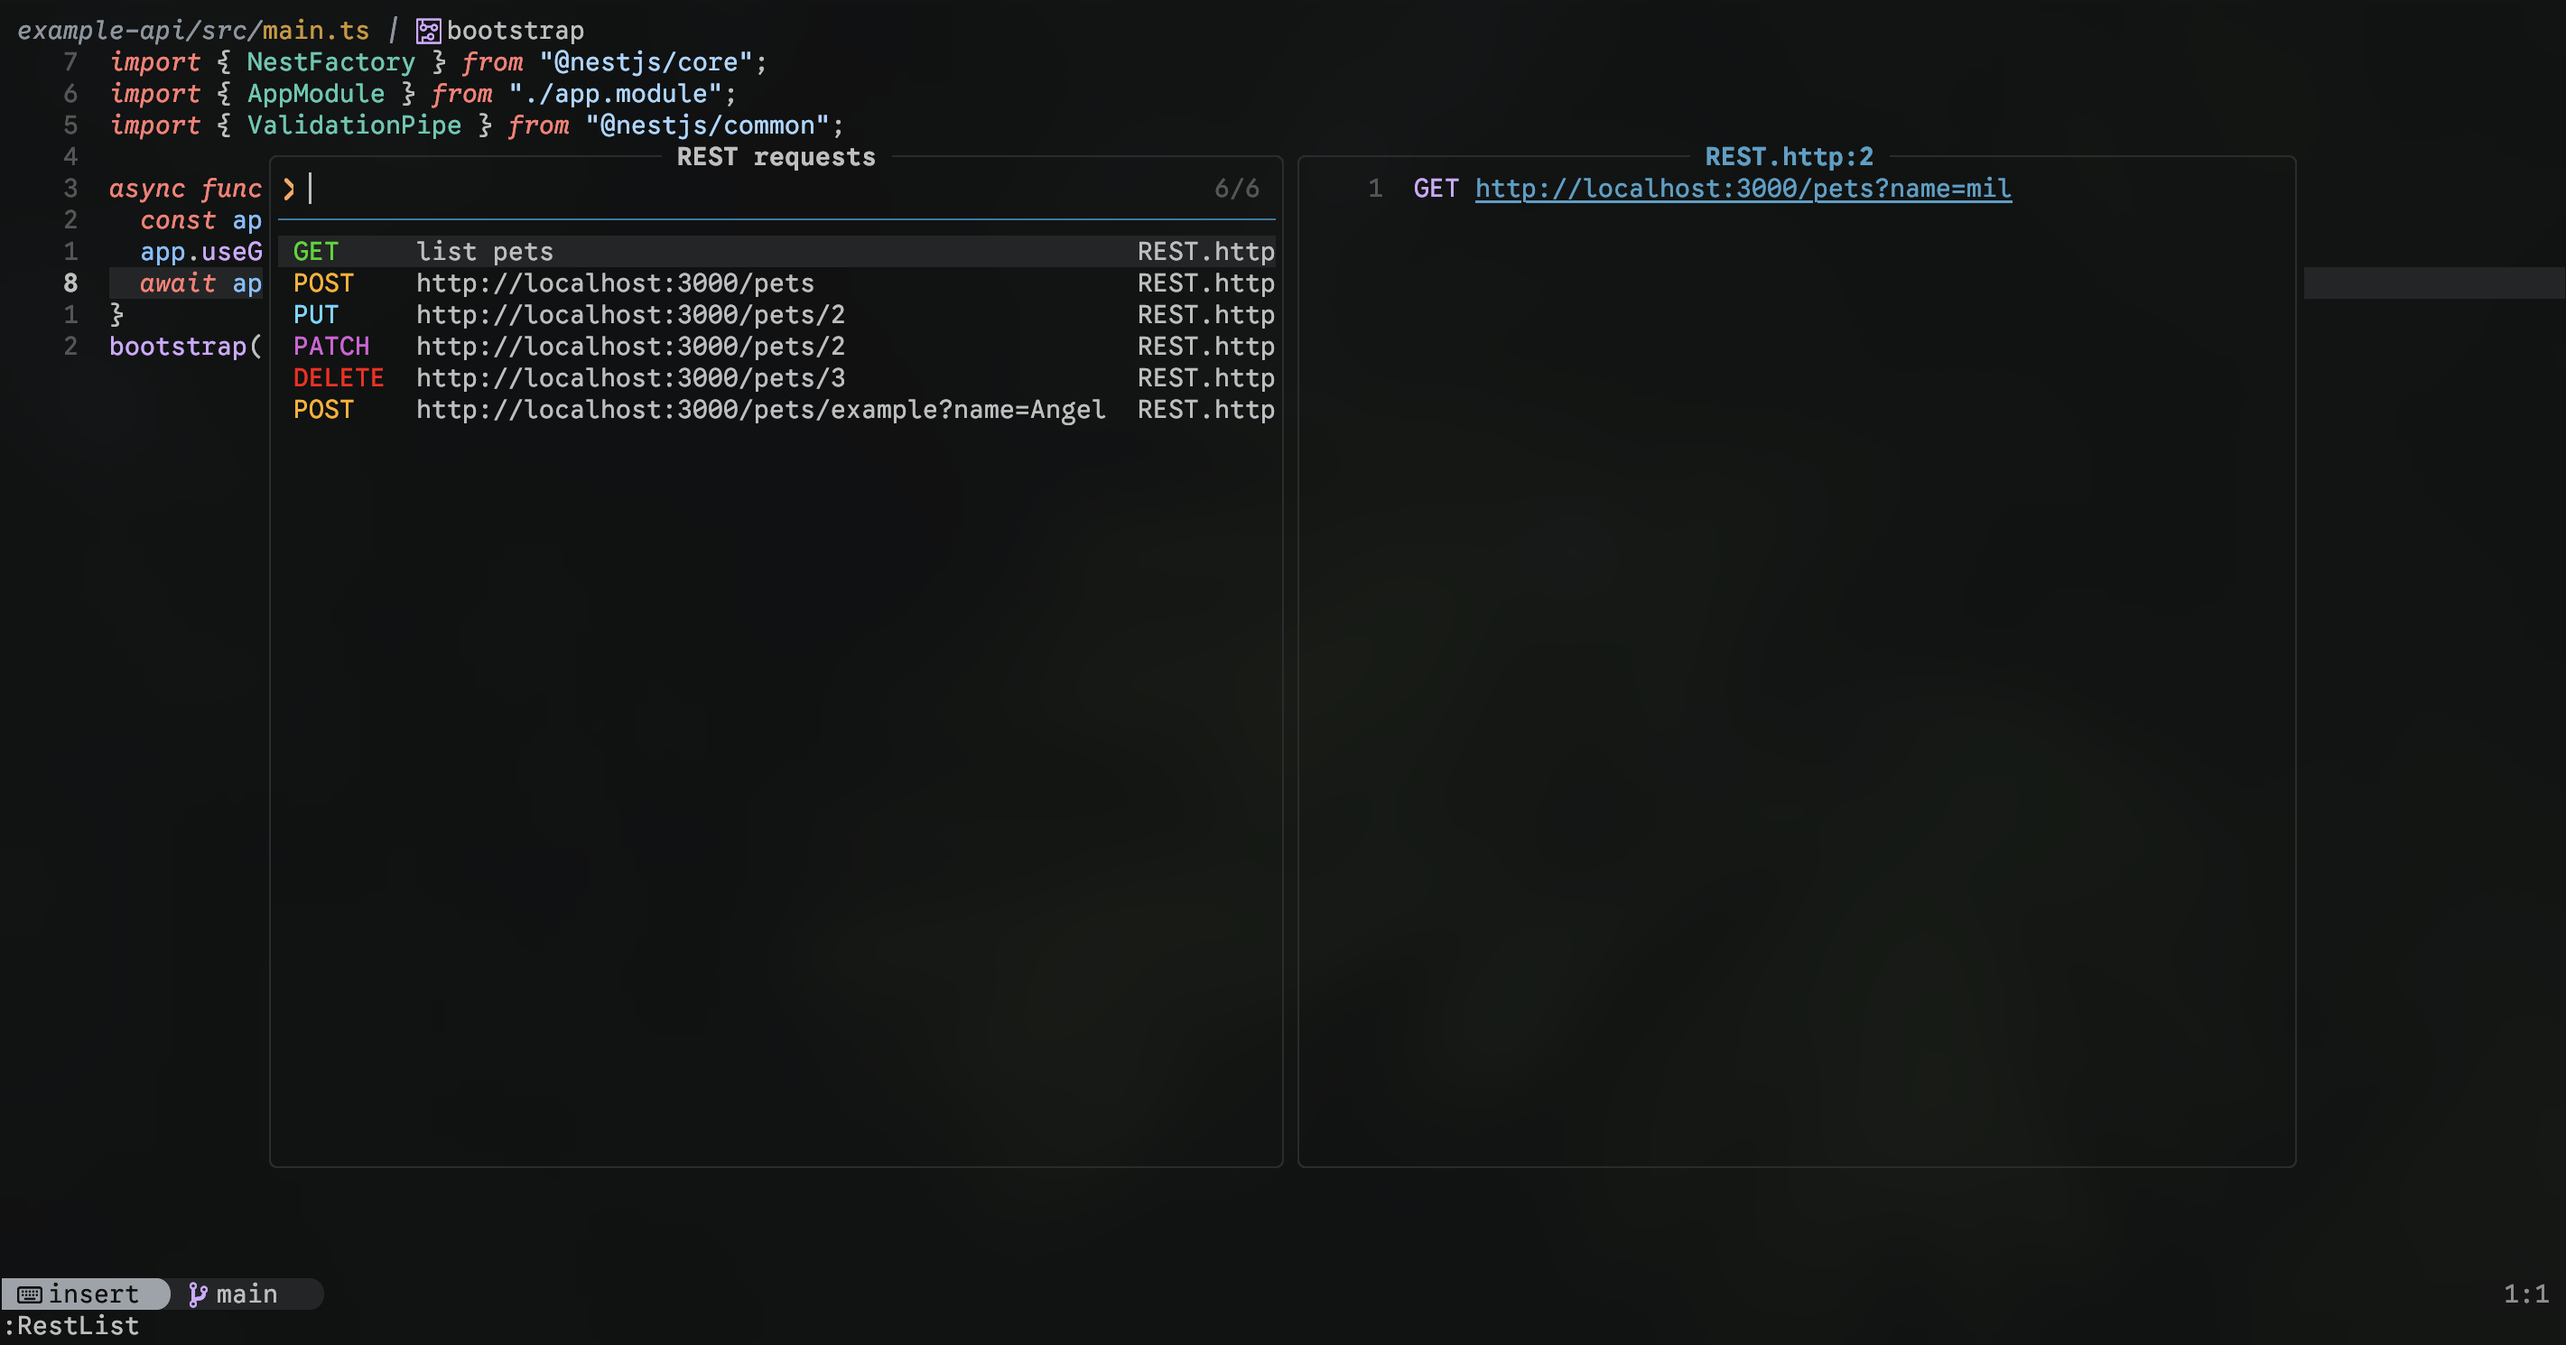
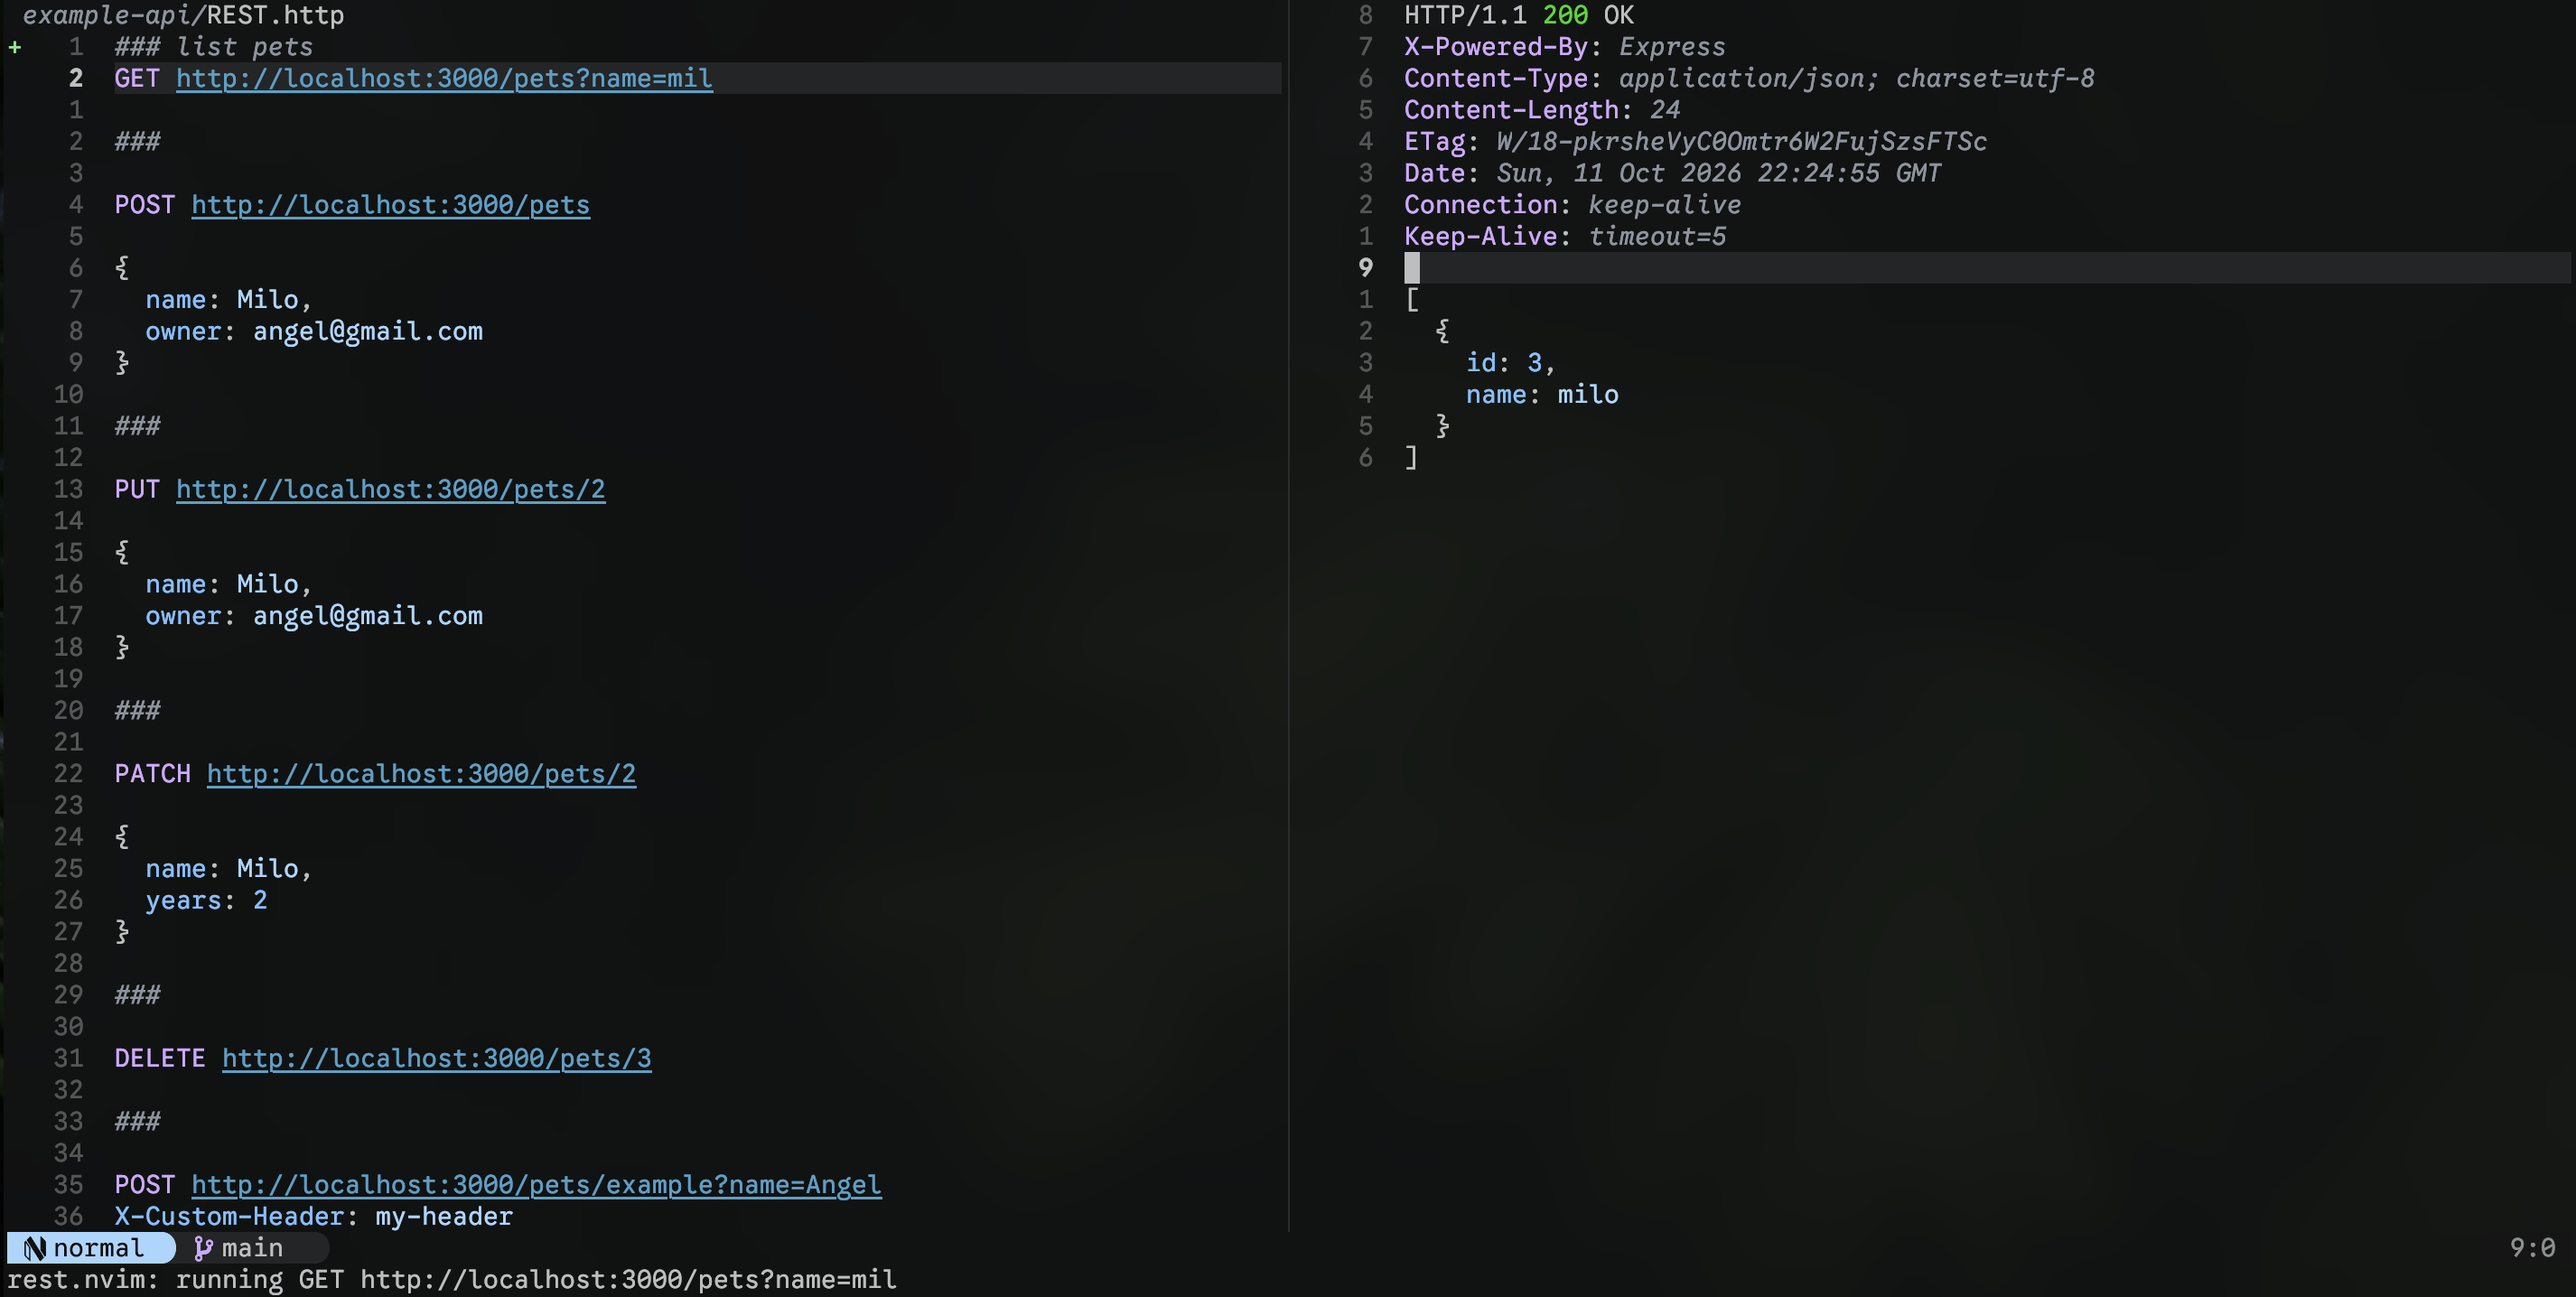
docs: showcase the request list picker in README

diff --git a/README.md b/README.md
@@ -100,6 +100,8 @@ split (`rest://response`). The body is syntax-highlighted by content type
 
 ## Listing requests
 
+![requests list](assets/requests-list.png)
+
 `:RestList` scans every `*.http` file under the configured directories
 (recursive, skipping `.git/` and `node_modules/`) and shows all of their
 endpoints in a picker:
